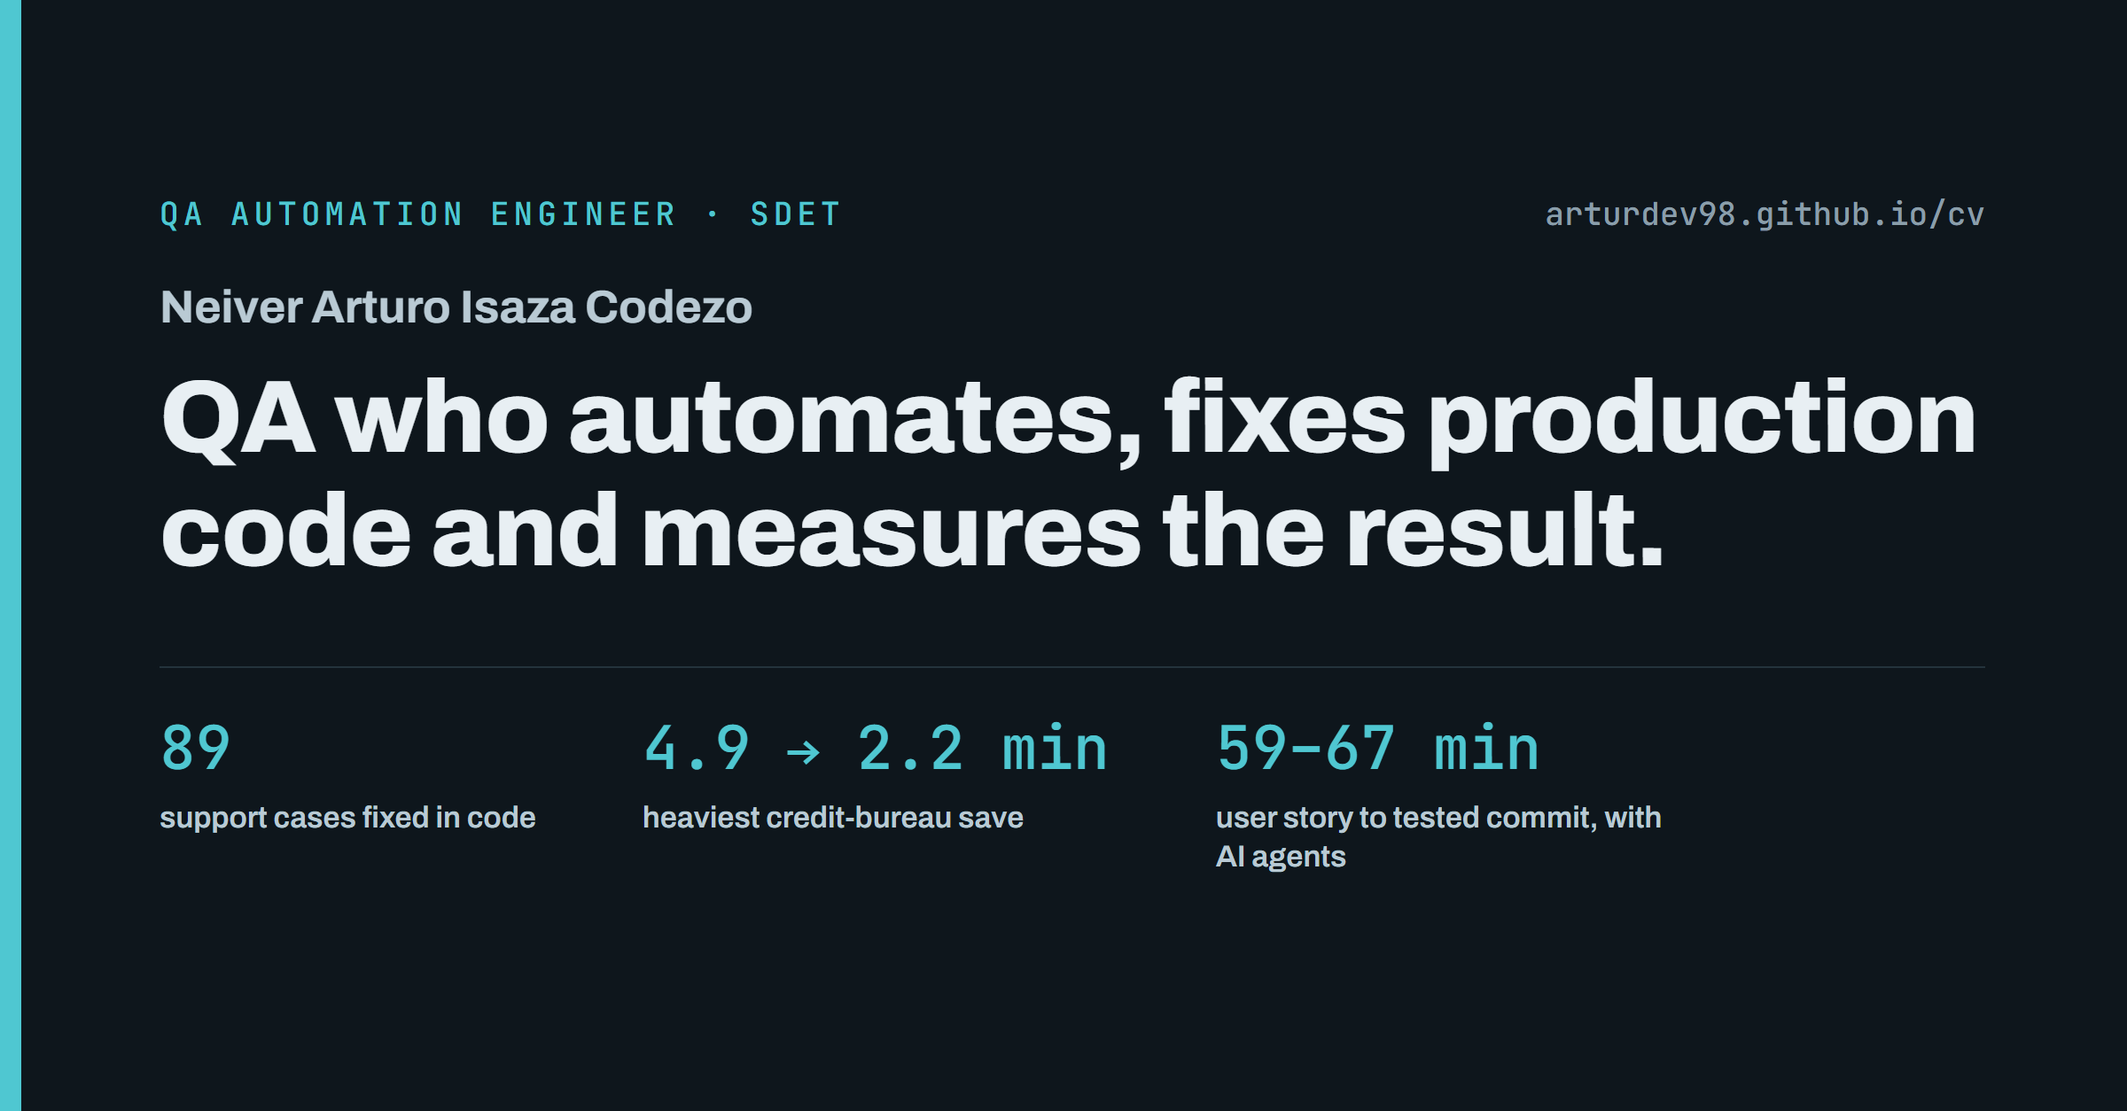
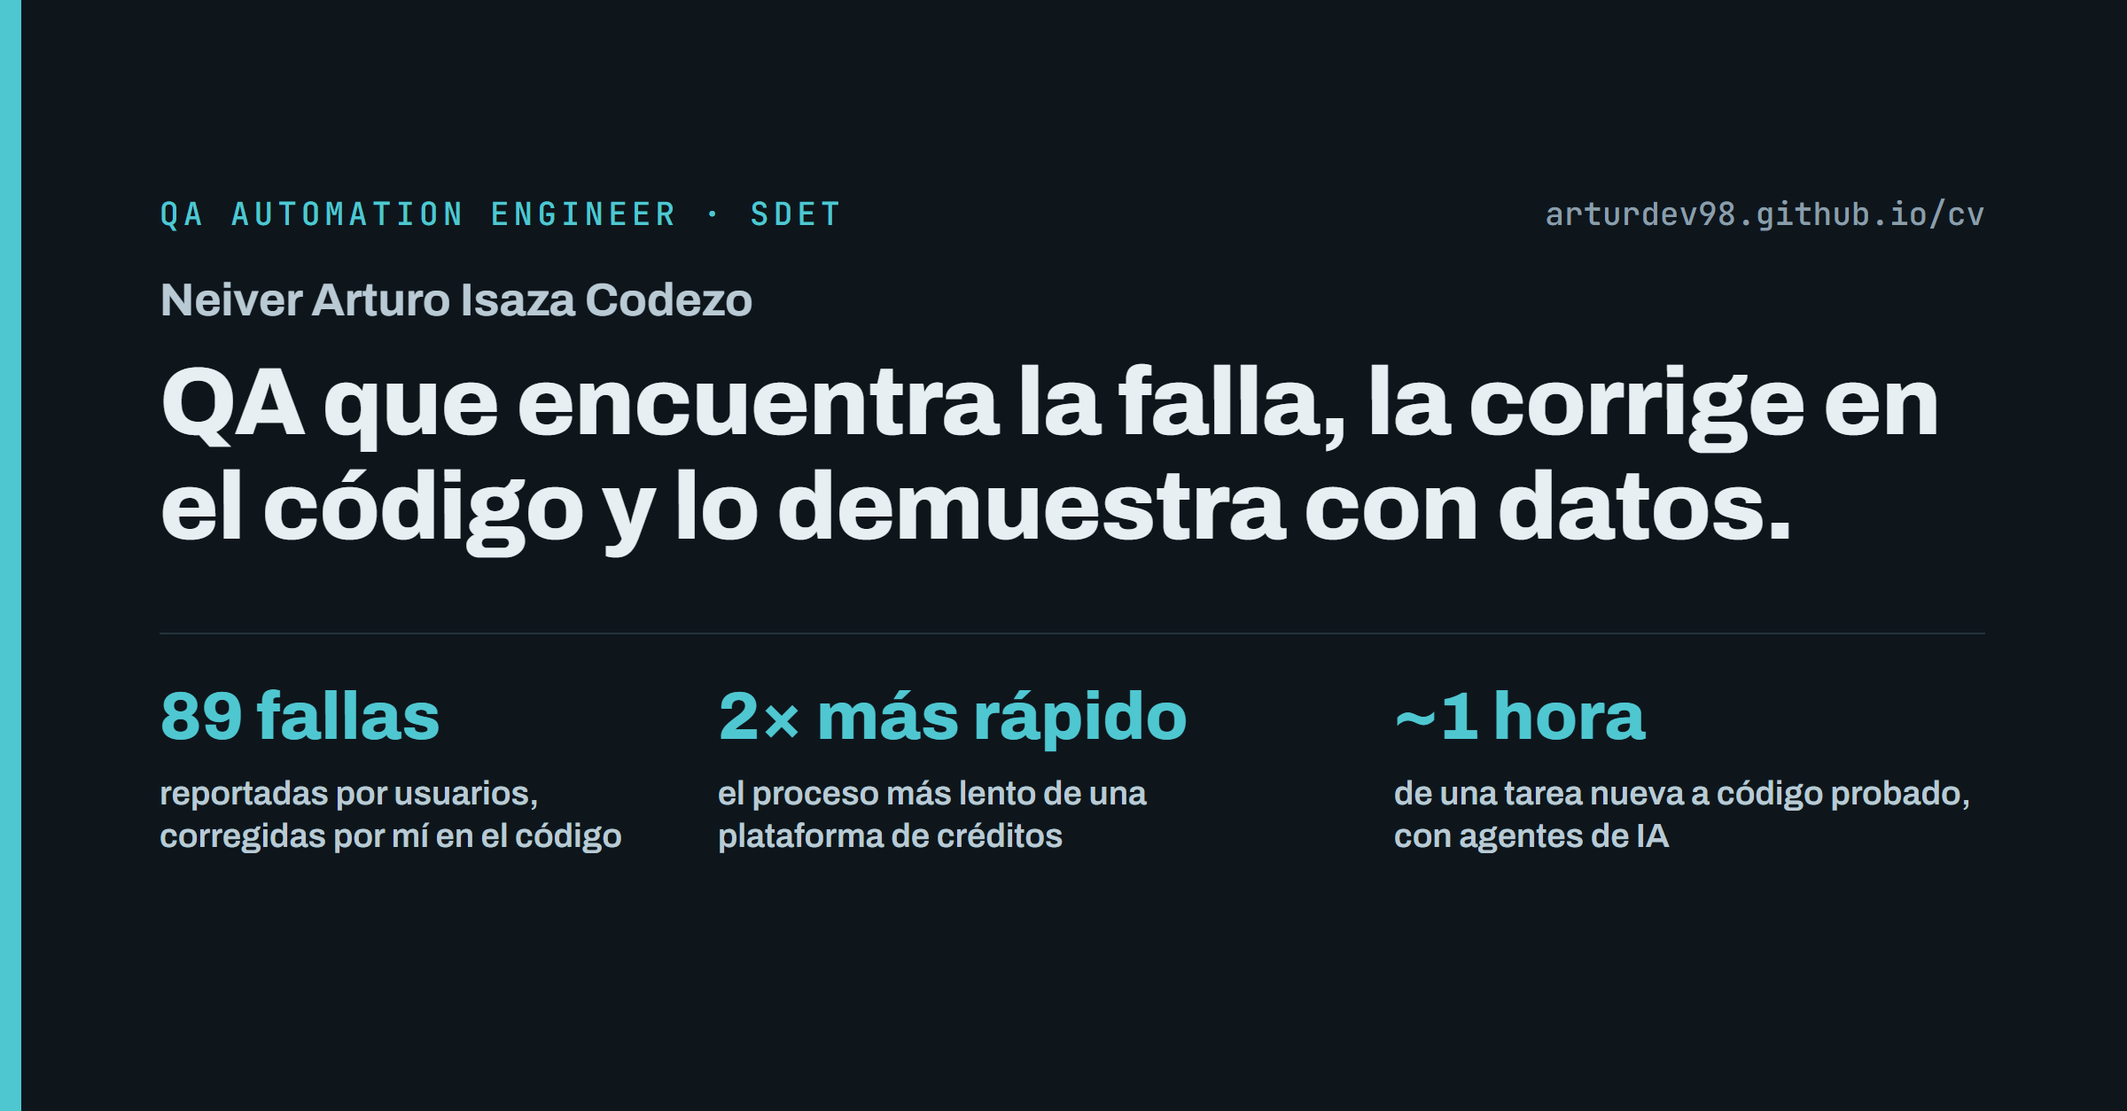
CV: fin de Hexa en nov. 2026 y cifras explicadas sin jerga
El resultado va primero y el dato técnico después; la imagen para compartir pasa a español con las mismas cifras de LinkedIn.

Changed region(s): [[0.0625, 0.2488, 0.9375, 0.5287], [0.0625, 0.622, 0.9375, 0.7775]]

diff --git a/cv/index.html b/cv/index.html
@@ -11,15 +11,15 @@
 <meta property="og:type" content="profile">
 <meta property="og:url" content="https://arturdev98.github.io/cv/">
 <meta property="og:title" content="Arturo Isaza · QA Automation Engineer · SDET">
-<meta property="og:description" content="QA que automatiza, corrige código en producción y mide el resultado. CV en español e inglés, descargable en PDF.">
-<meta property="og:image" content="https://arturdev98.github.io/cv/og.png?v=2026-11b">
+<meta property="og:description" content="QA que encuentra la falla, la corrige en el código y lo demuestra con datos. CV en español e inglés, descargable en PDF.">
+<meta property="og:image" content="https://arturdev98.github.io/cv/og.png?v=2026-11-20">
 <meta property="og:image:width" content="2400">
 <meta property="og:image:height" content="1254">
-<meta property="og:image:alt" content="QA who automates, fixes production code and measures the result: 89 support cases fixed in code, 4.9 to 2.2 min, 59–67 min from story to commit.">
+<meta property="og:image:alt" content="QA que encuentra la falla, la corrige en el código y lo demuestra con datos: 89 fallas corregidas en el código, el proceso más lento de una plataforma de créditos 2× más rápido y de tarea nueva a código probado en cerca de una hora.">
 <meta property="og:locale" content="es_CO">
 <meta property="og:locale:alternate" content="en_US">
 <meta name="twitter:card" content="summary_large_image">
-<meta name="twitter:image" content="https://arturdev98.github.io/cv/og.png?v=2026-11b">
+<meta name="twitter:image" content="https://arturdev98.github.io/cv/og.png?v=2026-11-20">
 <link rel="preconnect" href="https://fonts.googleapis.com">
 <link rel="preconnect" href="https://fonts.gstatic.com" crossorigin>
 <link rel="stylesheet" href="https://fonts.googleapis.com/css2?family=Archivo:wght@500;600;700;800&family=Source+Serif+4:ital,opsz,wght@0,8..60,400;0,8..60,600;1,8..60,400&family=JetBrains+Mono:wght@400;500&display=swap">
@@ -285,17 +285,17 @@
       <button type="button" class="pdf" id="pdf"><span data-l="es">Descargar PDF</span><span data-l="en">Download PDF</span></button>
     </div>
 
-    <p class="tesis" data-l="es">QA que automatiza, corrige código en producción y mide el resultado</p>
-    <p class="tesis" data-l="en">QA engineer who automates, fixes production code and measures the outcome</p>
+    <p class="tesis" data-l="es">QA que encuentra la falla, la corrige en el código y lo demuestra con datos</p>
+    <p class="tesis" data-l="en">QA engineer who finds the bug, fixes it in the code and proves it with data</p>
 
-    <p class="resumen" data-l="es">QA con más de 5 años en software web, móvil y de escritorio para fintech y seguros. Me hago cargo de los problemas de punta a punta: sigo una falla desde la prueba hasta la línea de código que la causa y la cierro midiendo el resultado. Así bajé a menos de la mitad el tiempo de un proceso crítico y llevé hasta su causa raíz la caída de tres servicios en producción. Aprendo lo que el trabajo pide (de las pruebas pasé a corregir código Java, Angular e Ionic) y, cuando una tarea se repite, la automatizo, muchas veces con agentes de IA en Claude Code.</p>
-    <p class="resumen" data-l="en">QA engineer with 5+ years in web, mobile and desktop software for fintech and insurance. I own problems end to end: I follow a failure from the test to the line of code that causes it, and I close it by measuring the result. That is how I cut a critical process to less than half its time and traced the crash of three production services to its root cause. I learn what the work needs (I moved from testing into fixing Java, Angular and Ionic code), and when a task repeats, I automate it, often with AI agents in Claude Code.</p>
+    <p class="resumen" data-l="es">QA con más de 5 años probando software web, móvil y de escritorio para empresas de crédito y seguros. No me quedo en reportar el error: lo sigo hasta la línea de código que lo causa, lo corrijo y mido que quedó resuelto. Así hice 2 veces más rápido el proceso más lento de una plataforma de créditos y encontré por qué se caían tres servicios en producción. Aprendo lo que el trabajo pide (de las pruebas pasé a corregir código Java, Angular e Ionic) y, cuando una tarea se repite, la automatizo, muchas veces con agentes de IA en Claude Code.</p>
+    <p class="resumen" data-l="en">QA engineer with 5+ years testing web, mobile and desktop software for lending and insurance companies. I don't stop at reporting a bug: I follow it to the line of code that causes it, fix it and measure that it's solved. That is how I made the slowest process of a lending platform 2× faster and found why three production services kept crashing. I learn what the work needs (I moved from testing into fixing Java, Angular and Ionic code), and when a task repeats, I automate it, often with AI agents in Claude Code.</p>
 
     <ul class="cifras">
-      <li><b>89</b><span data-l="es">casos de soporte corregidos en código</span><span data-l="en">support cases fixed in code</span></li>
-      <li><b data-l="es">4,9→2,2<small> min</small></b><b data-l="en">4.9→2.2<small> min</small></b><span data-l="es">el guardado de buró más pesado, que chocaba con el corte de 300 s</span><span data-l="en">heaviest credit-bureau save, which was hitting a 300 s timeout</span></li>
-      <li><b data-l="es">2,9×</b><b data-l="en">2.9×</b><span data-l="es">más rápida la reindexación completa de Elasticsearch</span><span data-l="en">faster full Elasticsearch reindex</span></li>
-      <li><b>59–67<small> min</small></b><span data-l="es">de historia de usuario a código probado y commit, con agentes de IA</span><span data-l="en">from user story to tested code and commit, with AI agents</span></li>
+      <li><b>89</b><span data-l="es">problemas de usuarios que resolví corrigiendo el código</span><span data-l="en">user-reported problems I solved by fixing the code</span></li>
+      <li><b data-l="es">4,9→2,2<small> min</small></b><b data-l="en">4.9→2.2<small> min</small></b><span data-l="es">el proceso más lento de la plataforma de créditos</span><span data-l="en">the lending platform's slowest process</span></li>
+      <li><b data-l="es">2,9×</b><b data-l="en">2.9×</b><span data-l="es">más rápida la actualización del buscador interno</span><span data-l="en">faster rebuild of the internal search</span></li>
+      <li><b>59–67<small> min</small></b><span data-l="es">de tarea nueva a código probado, con agentes de IA</span><span data-l="en">from new task to tested code, with AI agents</span></li>
     </ul>
 
     <section>
@@ -304,43 +304,43 @@
       <article class="empleo">
         <div class="cab">
           <h3><span data-l="es">Analista de Pruebas QA</span><span data-l="en">QA Analyst</span></h3>
-          <span class="fecha"><span data-l="es">may 2023 – hoy</span><span data-l="en">May 2023 – present</span></span>
+          <span class="fecha"><span data-l="es">may 2023 – nov 2026</span><span data-l="en">May 2023 – Nov 2026</span></span>
         </div>
         <p class="donde" data-l="es">HexaSolutions · cliente Crezcamos, fintech de microcrédito · Bucaramanga</p>
         <p class="donde" data-l="en">HexaSolutions · client Crezcamos, a microcredit fintech · Bucaramanga, Colombia</p>
 
-        <h4><span data-l="es">Código y rendimiento</span><span data-l="en">Code and performance</span></h4>
+        <h4><span data-l="es">Corrección de fallas y rendimiento</span><span data-l="en">Bug fixing and performance</span></h4>
         <ul class="logros">
-          <li data-l="es">Corregí <b>89 casos de soporte</b> directamente en el código (Java · Spring Boot, Angular y la app móvil Ionic), con <b>412 commits</b> en 16 repositorios entre septiembre de 2025 y noviembre de 2026.</li>
-          <li data-l="en">Fixed <b>89 support cases</b> directly in code (Java · Spring Boot, Angular and the Ionic mobile app), with <b>412 commits</b> across 16 repositories between September 2025 and November 2026.</li>
-          <li data-l="es">Optimicé el guardado de pasivos de buró del cliente más grande (informe de 27 MB): de <b>4,9 a 2,2 minutos</b>. Quité 2.551 llamadas REST repetidas, bajé de 64.800 sentencias SQL a unas 230 y llevé un paso de 133 s a 98 ms.</li>
-          <li data-l="en">Optimized the credit-bureau liabilities save for the largest client (a 27 MB report): from <b>4.9 to 2.2 minutes</b>. Removed 2,551 repeated REST calls, cut 64,800 SQL statements to about 230 and took one step from 133 s to 98 ms.</li>
-          <li data-l="es">Paralelicé la reindexación completa de Elasticsearch: <b>2,2× y 2,9× más rápida</b> en los dos sistemas, con los conteos de base de datos e índice cuadrados. En la validación apareció un índice que solo cargaba 43.858 de 263.057 registros.</li>
-          <li data-l="en">Parallelized the full Elasticsearch reindex: <b>2.2× and 2.9× faster</b> in the two systems, with database and index counts matching. Validation also exposed an index that was loading only 43,858 of 263,057 records.</li>
+          <li data-l="es">Resolví <b>89 casos de soporte</b> (problemas que reportaban los usuarios) corrigiendo yo mismo el código Java · Spring Boot, Angular e Ionic: <b>412 commits</b> en 16 repositorios entre sep. 2025 y nov. 2026.</li>
+          <li data-l="en">Solved <b>89 support cases</b> (problems reported by users) by fixing the Java · Spring Boot, Angular and Ionic code myself: <b>412 commits</b> across 16 repositories, Sep 2025 – Nov 2026.</li>
+          <li data-l="es">Hice 2 veces más rápido el proceso más lento de la plataforma: guardar la consulta a centrales de riesgo (buró) del cliente más grande pasó de <b>4,9 a 2,2 minutos</b>; antes chocaba con el límite de 5 minutos del sistema. Quité 2.551 llamadas repetidas entre servicios y bajé las consultas a la base de datos de 64.800 a unas 230.</li>
+          <li data-l="en">Made the platform's slowest process 2× faster: saving the largest client's credit-bureau check went from <b>4.9 to 2.2 minutes</b>; before, it kept hitting the system's 5-minute limit. I removed 2,551 repeated calls between services and cut database queries from 64,800 to about 230.</li>
+          <li data-l="es">Hice <b>2,2× y 2,9× más rápida</b> la actualización completa del buscador interno (reindexación de Elasticsearch en paralelo), con los mismos registros en buscador y base de datos. Al validarlo encontré un índice que solo cargaba 43.858 de 263.057 registros: la sexta parte.</li>
+          <li data-l="en">Made the full rebuild of the internal search <b>2.2× and 2.9× faster</b> (parallel Elasticsearch reindex), with the same records in search and database. Checking it exposed an index loading only 43,858 of 263,057 records: a sixth.</li>
         </ul>
 
-        <h4><span data-l="es">Producción e incidentes</span><span data-l="en">Production and incidents</span></h4>
+        <h4><span data-l="es">Incidentes en producción</span><span data-l="en">Production incidents</span></h4>
         <ul class="logros">
-          <li data-l="es">Diagnostiqué la caída por memoria de <b>tres servicios en producción</b>: crucé seis logs en una línea de tiempo, separé evidencia de inferencia y ubiqué la causa en el código. Salieron tres correcciones, entre ellas quitar las consultas que cargaban tablas completas.</li>
-          <li data-l="en">Diagnosed the out-of-memory crash of <b>three production services</b>: built a timeline across six logs, kept evidence apart from inference and traced the cause to the code. It led to three fixes, including removing queries that loaded entire tables.</li>
+          <li data-l="es">Encontré por qué <b>tres servicios en producción</b> se caían por falta de memoria: ordené seis logs en una línea de tiempo y ubiqué la causa en el código. Salieron tres correcciones, entre ellas quitar consultas que cargaban tablas completas.</li>
+          <li data-l="en">Found why <b>three production services</b> kept crashing from running out of memory: built a timeline across six logs and traced the cause to the code. It led to three fixes, including removing queries that loaded entire tables.</li>
         </ul>
 
-        <h4><span data-l="es">IA aplicada al desarrollo</span><span data-l="en">AI applied to delivery</span></h4>
+        <h4><span data-l="es">IA aplicada al desarrollo</span><span data-l="en">AI applied to development</span></h4>
         <ul class="logros">
-          <li data-l="es">Diseñé flujos de agentes con Claude Code que llevan una historia de usuario de punta a punta: análisis, spec, pruebas en rojo, implementación, commit y paquete para QA, en <b>59 a 67 minutos medidos</b>. También generan los scripts SQL de corrección y levantan ambientes locales contra soporte.</li>
-          <li data-l="en">Designed Claude Code agent workflows that take a user story end to end: analysis, spec, failing tests, implementation, commit and a QA hand-off package, in <b>59–67 measured minutes</b>. They also generate data-fix SQL scripts and spin up local environments against staging.</li>
-          <li data-l="es">Construí un <b>agente de triage para la mesa de ayuda</b>: cada 15 minutos lee los tickets de SysAid de cuatro proyectos, los clasifica con Claude, los cruza con Mantis y Taiga y revisa el código antes de publicar el diagnóstico en Google Chat. Corre en Docker, desplegado con Jenkins, y lleva un dashboard con el historial.</li>
-          <li data-l="en">Built a <b>help-desk triage agent</b> for four projects: every 15 minutes it reads SysAid tickets, classifies them with Claude, matches them against Mantis and Taiga, and reviews the code before posting a diagnosis to Google Chat. It runs in Docker via Jenkins, with a history dashboard.</li>
+          <li data-l="es">Diseñé flujos de agentes de IA (Claude Code) que llevan una tarea nueva del análisis a código probado, commit y entrega a QA en <b>59 a 67 minutos medidos</b>. También generan scripts SQL de corrección y levantan ambientes locales.</li>
+          <li data-l="en">Designed AI agent workflows (Claude Code) that take a new task from analysis to tested code, commit and QA hand-off in <b>59–67 measured minutes</b>. They also generate data-fix SQL and spin up local environments.</li>
+          <li data-l="es">Construí un <b>agente que clasifica los tickets de soporte</b> de cuatro proyectos: lee los de SysAid, los clasifica con Claude, los cruza con Mantis y Taiga y revisa el código antes de publicar un diagnóstico en Google Chat. Corre en Docker con Jenkins.</li>
+          <li data-l="en">Built an <b>agent that sorts the support tickets</b> of four projects: it reads SysAid tickets, classifies them with Claude, matches them against Mantis and Taiga and reviews the code before posting a diagnosis to Google Chat. Runs in Docker via Jenkins.</li>
         </ul>
 
-        <h4><span data-l="es">Automatización y herramientas</span><span data-l="en">Automation and tooling</span></h4>
+        <h4><span data-l="es">Automatización de pruebas y herramientas</span><span data-l="en">Test automation and tooling</span></h4>
         <ul class="logros">
-          <li data-l="es">Amplié el framework E2E del cliente (Playwright + TypeScript, Page Objects, datos desde Excel, GitLab CI): simulé la biometría FaceTec por escenarios para automatizar los flujos que dependían de ella y conecté los casos UAT a la base de preproducción.</li>
-          <li data-l="en">Extended the client's E2E framework (Playwright + TypeScript, Page Objects, Excel-driven data, GitLab CI): simulated FaceTec biometrics per scenario to automate the flows that depended on it, and wired UAT cases to the pre-production database.</li>
-          <li data-l="es">Desplegué con Jenkins y Docker tres herramientas internas: un bot que avisa en Chat qué imágenes publicó cada build, un buscador web de Elasticsearch (Spring Boot + Angular) y un ranking de calidad del código del equipo a partir de GitLab.</li>
-          <li data-l="en">Shipped three internal tools with Jenkins and Docker: a bot that posts to Chat which images each build published, a web Elasticsearch browser (Spring Boot + Angular) and a team code-quality ranking built from GitLab.</li>
-          <li data-l="es">Planeo y ejecuto pruebas funcionales, de humo, carga y estrés por versión, y presento cada versión al Product Owner antes de liberarla.</li>
-          <li data-l="en">Plan and run functional, smoke, load and stress tests for each release, and walk the Product Owner through every release before it ships.</li>
+          <li data-l="es">Amplié el framework de pruebas de punta a punta (Playwright + TypeScript, Page Objects, GitLab CI): simulé la verificación biométrica de identidad (FaceTec) para automatizar los flujos que dependían de ella.</li>
+          <li data-l="en">Extended the end-to-end test framework (Playwright + TypeScript, Page Objects, GitLab CI): simulated the biometric identity check (FaceTec) to automate the flows that depended on it.</li>
+          <li data-l="es">Desplegué con Jenkins y Docker un bot de avisos de compilaciones, un buscador web para Elasticsearch (Spring Boot + Angular) y un ranking de calidad del código del equipo.</li>
+          <li data-l="en">Shipped with Jenkins and Docker a build-notification bot, a web tool to query Elasticsearch (Spring Boot + Angular) and a team code-quality ranking.</li>
+          <li data-l="es">Planeé y ejecuté pruebas funcionales, de humo, de carga y de estrés en cada versión, y presenté cada una al Product Owner.</li>
+          <li data-l="en">Planned and ran functional, smoke, load and stress tests for every release, and presented each one to the Product Owner.</li>
         </ul>
       </article>
 
@@ -375,8 +375,8 @@
       <ul class="proyectos">
         <li>
           <span><a href="https://arturdev98.github.io/ai-automatization/"><span data-l="es">QA con agentes de IA</span><span data-l="en">QA with AI agents</span></a><small>Playwright · Claude Code</small></span>
-          <span data-l="es">Cuatro agentes llevan un requisito a plan, pruebas de Playwright, reporte y trazabilidad, con revisión humana antes de automatizar: 57 pruebas de interfaz y API en CI (GitHub Actions y Docker) y 19 bugs reportados.</span>
-          <span data-l="en">Four AI agents take a requirement to a test plan, Playwright tests, a report and traceability, with human review before anything is automated: 57 UI and API tests in CI (GitHub Actions and Docker) and 19 bugs reported.</span>
+          <span data-l="es">Cuatro agentes de IA convierten un requisito en plan, pruebas de Playwright, reporte y trazabilidad, con revisión humana: 57 pruebas de interfaz y API corren solas en cada cambio (GitHub Actions y Docker) y encontraron 19 bugs.</span>
+          <span data-l="en">Four AI agents turn a requirement into a test plan, Playwright tests, a report and traceability, with human review: 57 UI and API tests run on every change (GitHub Actions and Docker) and found 19 bugs.</span>
         </li>
         <li>
           <span><a href="https://chromewebstore.google.com/detail/nffhilcgedjjoednagidnimjnembkdho">FollowApp</a><small>Chrome Web Store</small></span>
